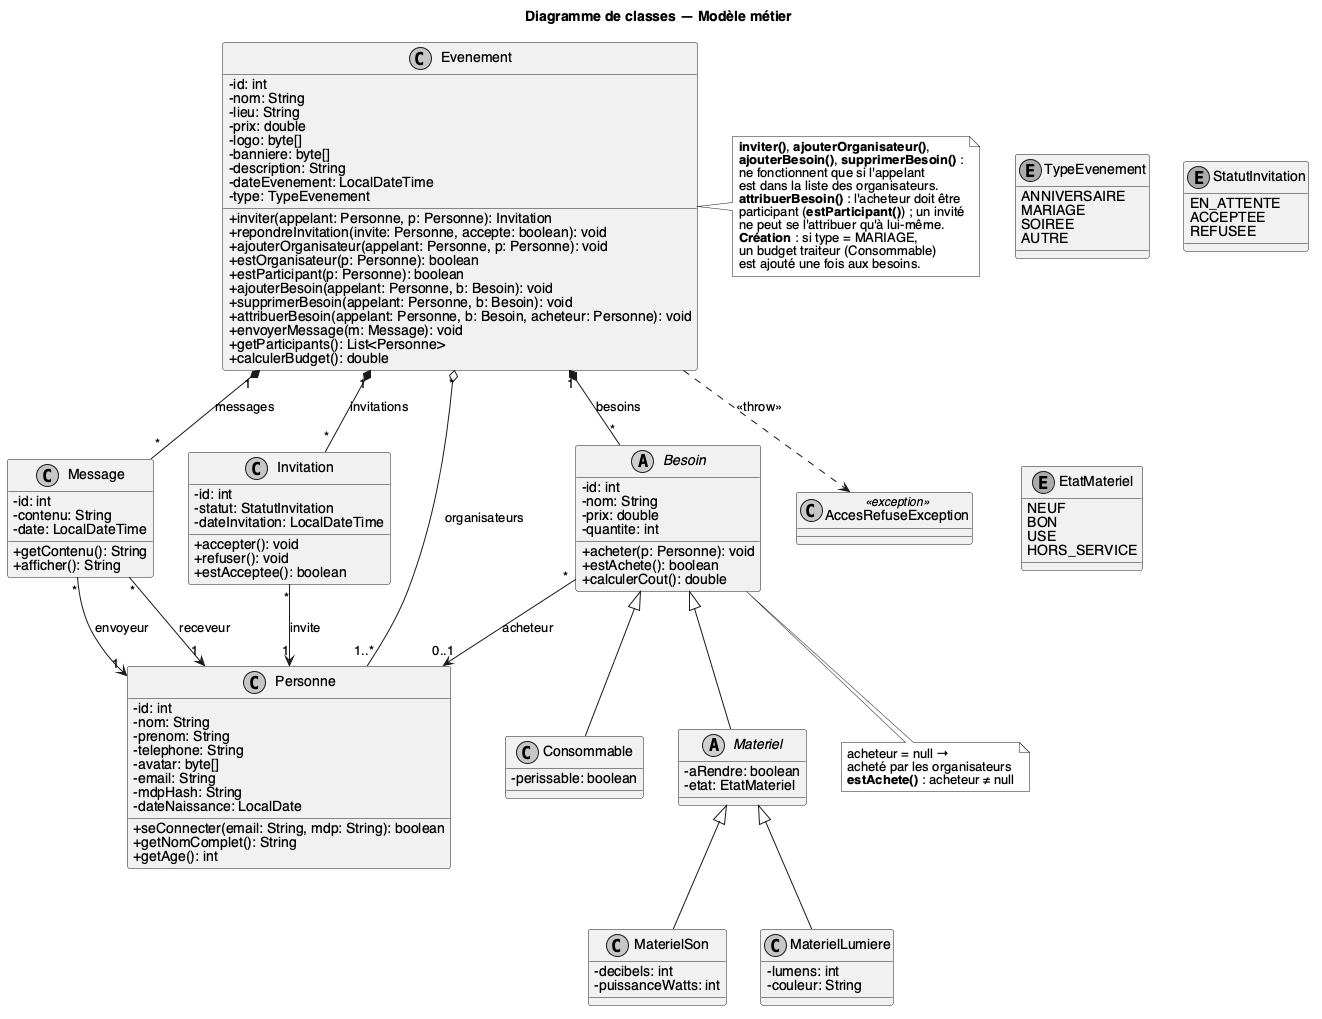
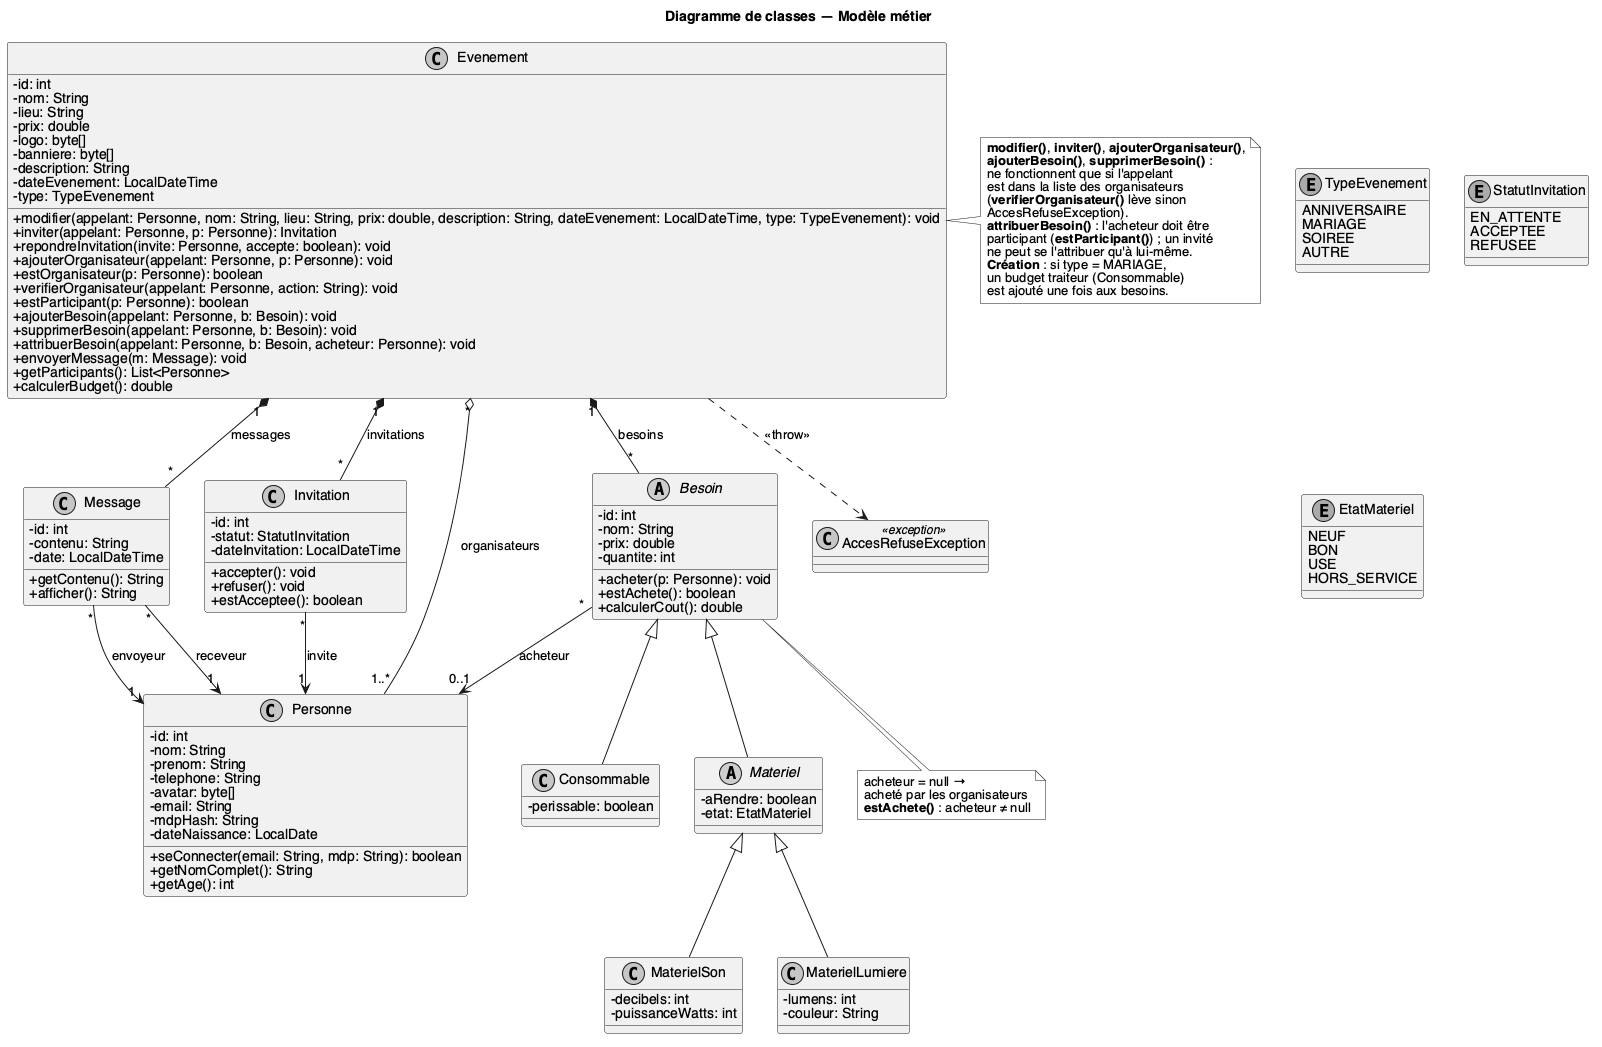
feat(uml): update class diagram and cahier des charges with new methods and clarifications

diff --git a/doc/cahier-des-charges.md b/doc/cahier-des-charges.md
@@ -98,7 +98,7 @@ Priorités : **P1** = MVP, indispensable à la démonstration ; **P2** = prévu,
 | --- | ------------------------------------------------------------------------------------------------------------------------------------------------------------------------------------------- | -------- |
 | F5  | Une personne connectée crée un événement d'un type donné (anniversaire, mariage, soirée, autre) avec nom, description, date, lieu et prix de participation. Elle en devient organisatrice. | P1       |
 | F6  | La personne voit la liste des événements qu'elle organise et de ceux auxquels elle est invitée.                                                                                             | P1       |
-| F7  | Un organisateur modifie les informations de l'événement.                                                                                                                                    | P2       |
+| F7  | Un organisateur modifie les informations de l'événement (`modifier()`).                                                                                                                                    | P2       |
 | F8  | Un organisateur supprime l'événement (invitations, besoins et messages associés sont supprimés).                                                                                            | P2       |
 | F9  | À la création d'un mariage, un budget traiteur (`Consommable`) est ajouté une fois à ses besoins ; un organisateur peut le supprimer s'il n'en veut pas.                                | P3       |
 | F10 | Un organisateur ajoute un co-organisateur parmi les personnes existantes (`ajouterOrganisateur()`, sinon `AccesRefuseException`).                                                                                                                   | P2       |
@@ -109,7 +109,7 @@ Priorités : **P1** = MVP, indispensable à la démonstration ; **P2** = prévu,
 | ID  | Exigence                                                                                                                     | Priorité |
 | --- | ---------------------------------------------------------------------------------------------------------------------------- | -------- |
 | F12 | Un organisateur invite une personne existante (par son e-mail). L'invitation est créée avec le statut `EN_ATTENTE` (`inviter()`).          | P1       |
-| F13 | Seul un organisateur de l'événement peut y inviter quelqu'un (`estOrganisateur()`, sinon `AccesRefuseException`).                                 | P1       |
+| F13 | Seul un organisateur de l'événement peut y inviter quelqu'un (`verifierOrganisateur()`, qui appelle `estOrganisateur()`, sinon `AccesRefuseException`).                                 | P1       |
 | F14 | Une même personne ne peut pas être invitée deux fois au même événement.                                                      | P1       |
 | F15 | L'invité consulte ses invitations et les accepte ou les refuse (`repondreInvitation()`, qui appelle `accepter()` ou `refuser()`). | P1       |
 | F16 | Les organisateurs voient l'état de chaque invitation (en attente, acceptée, refusée).                                        | P1       |
